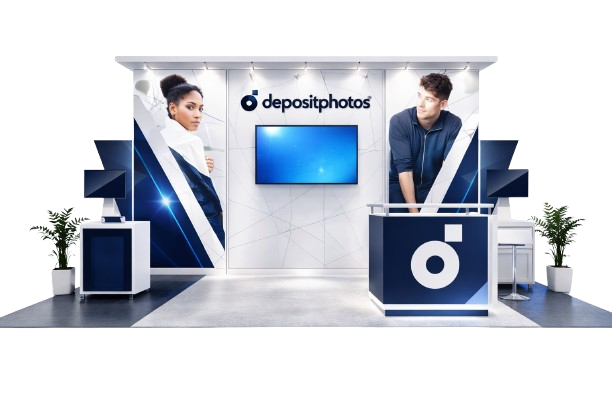
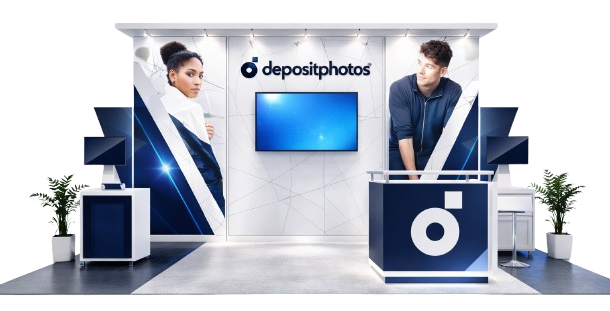
Changes for HomePage

diff --git a/style.css b/style.css
@@ -968,7 +968,7 @@ body.no-scroll {
 }
 
 .lighting-carousel {
-  padding-top: 30px;
+  padding-top: 10px;
 }
 
 .lighting-carousel .hero-stage {
@@ -986,7 +986,7 @@ body.no-scroll {
   position: relative;
   z-index: 2;
   min-height: clamp(430px, 54vw, 620px);
-  padding: clamp(34px, 5vw, 70px) clamp(22px, 4vw, 56px) 120px;
+  padding: clamp(24px, 3vw, 40px) clamp(22px, 4vw, 56px) 100px;
   background: url("asset/Hero-Banner-Background.png") center / cover no-repeat;
 }
 
@@ -999,7 +999,7 @@ body.no-scroll {
 .hero-right-media {
   margin: 0;
   position: relative;
-  z-index: 2;
+  z-index: 12;
   align-self: end;
 }
 
@@ -1008,6 +1008,7 @@ body.no-scroll {
   width: min(100%, 780px);
   height: auto;
   margin-left: auto;
+  transform: translateY(28px);
   filter: drop-shadow(0 18px 28px rgba(10, 33, 76, 0.2));
 }
 
@@ -1070,12 +1071,13 @@ body.no-scroll {
   }
 
   .static-hero {
-    min-height: clamp(400px, 68vw, 560px);
+    min-height: auto;
     padding: clamp(30px, 5vw, 58px) clamp(20px, 4vw, 40px) 98px;
   }
 
   .hero-right-media img {
     width: min(100%, 640px);
+    transform: translateY(20px);
   }
 
   .slide-description {
@@ -1111,6 +1113,7 @@ body.no-scroll {
     width: 100%;
     max-width: 540px;
     margin: 0 auto 12px;
+    transform: translateY(10px);
   }
 
   .slide-title {

diff --git a/index.html b/index.html
@@ -401,7 +401,7 @@
         <div class="container hero-stage static-hero">
           <div class="hero-copy">
             <h1 class="slide-title">
-              Trade Show Displays Designed To Win Attention
+              Trade Show Displays <br/>That Win Atttention
             </h1>
             <p class="slide-description">
               Portable booth systems, branded backdrops, and custom exhibits
